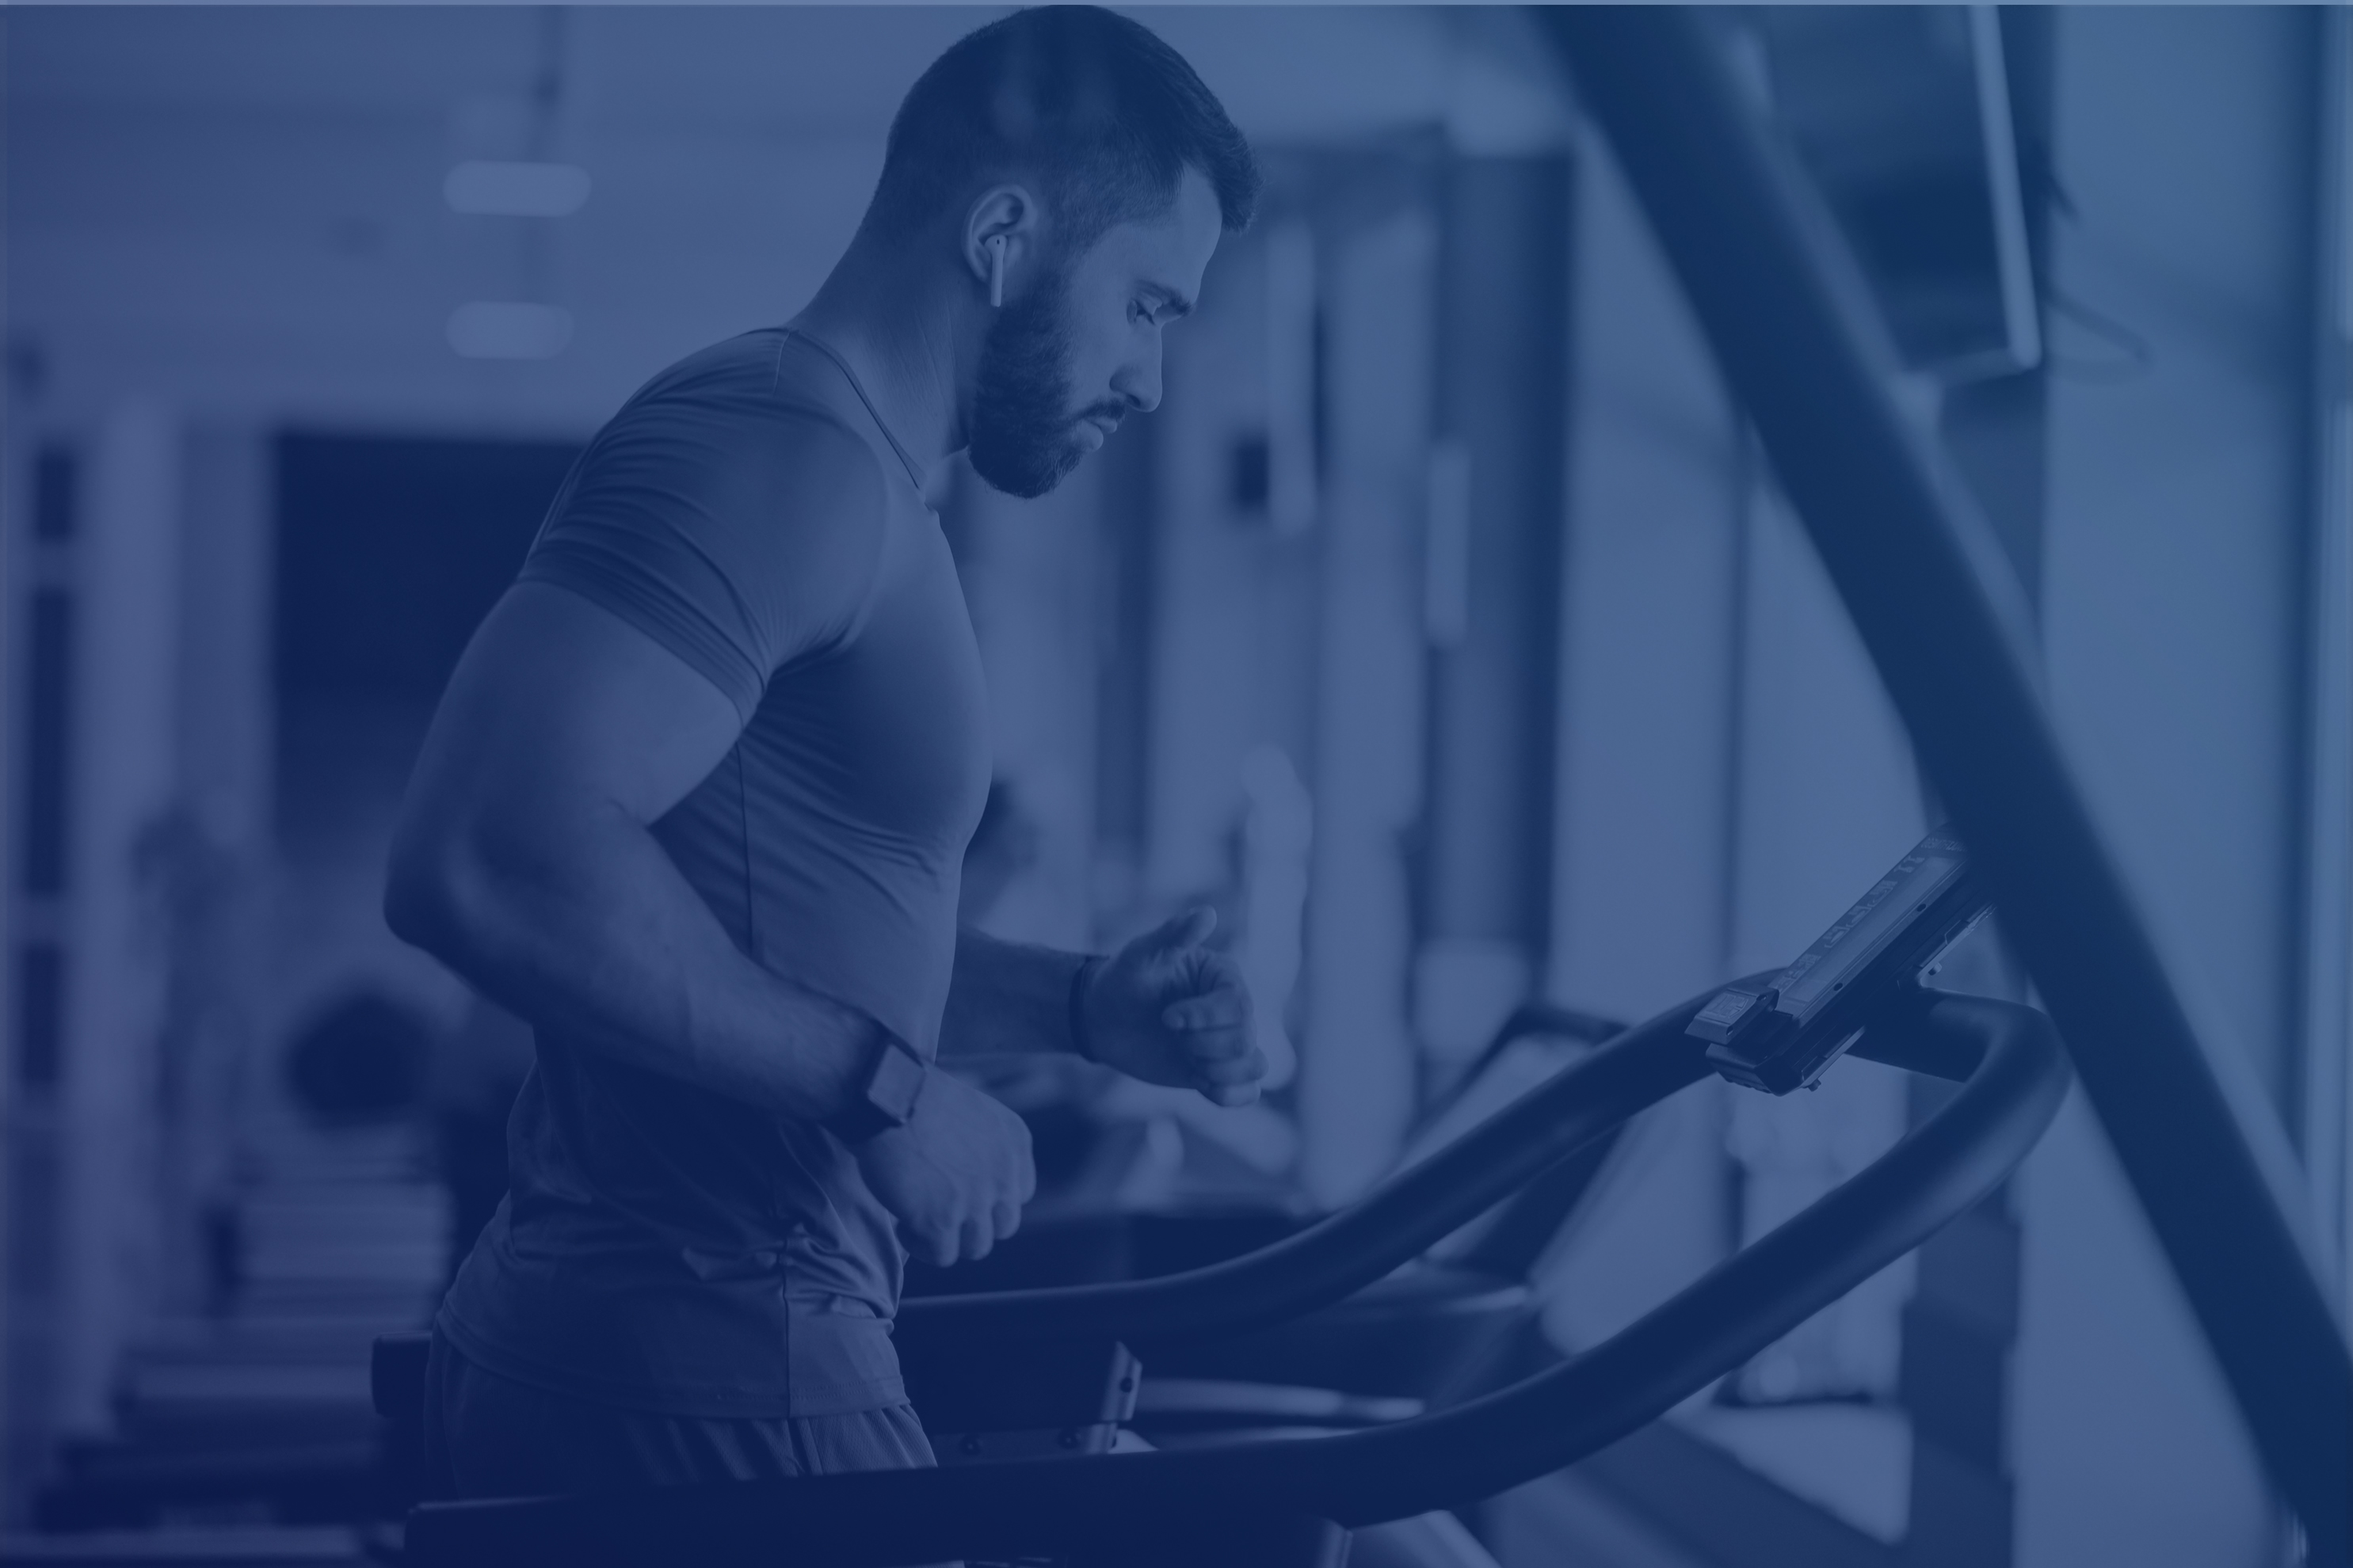
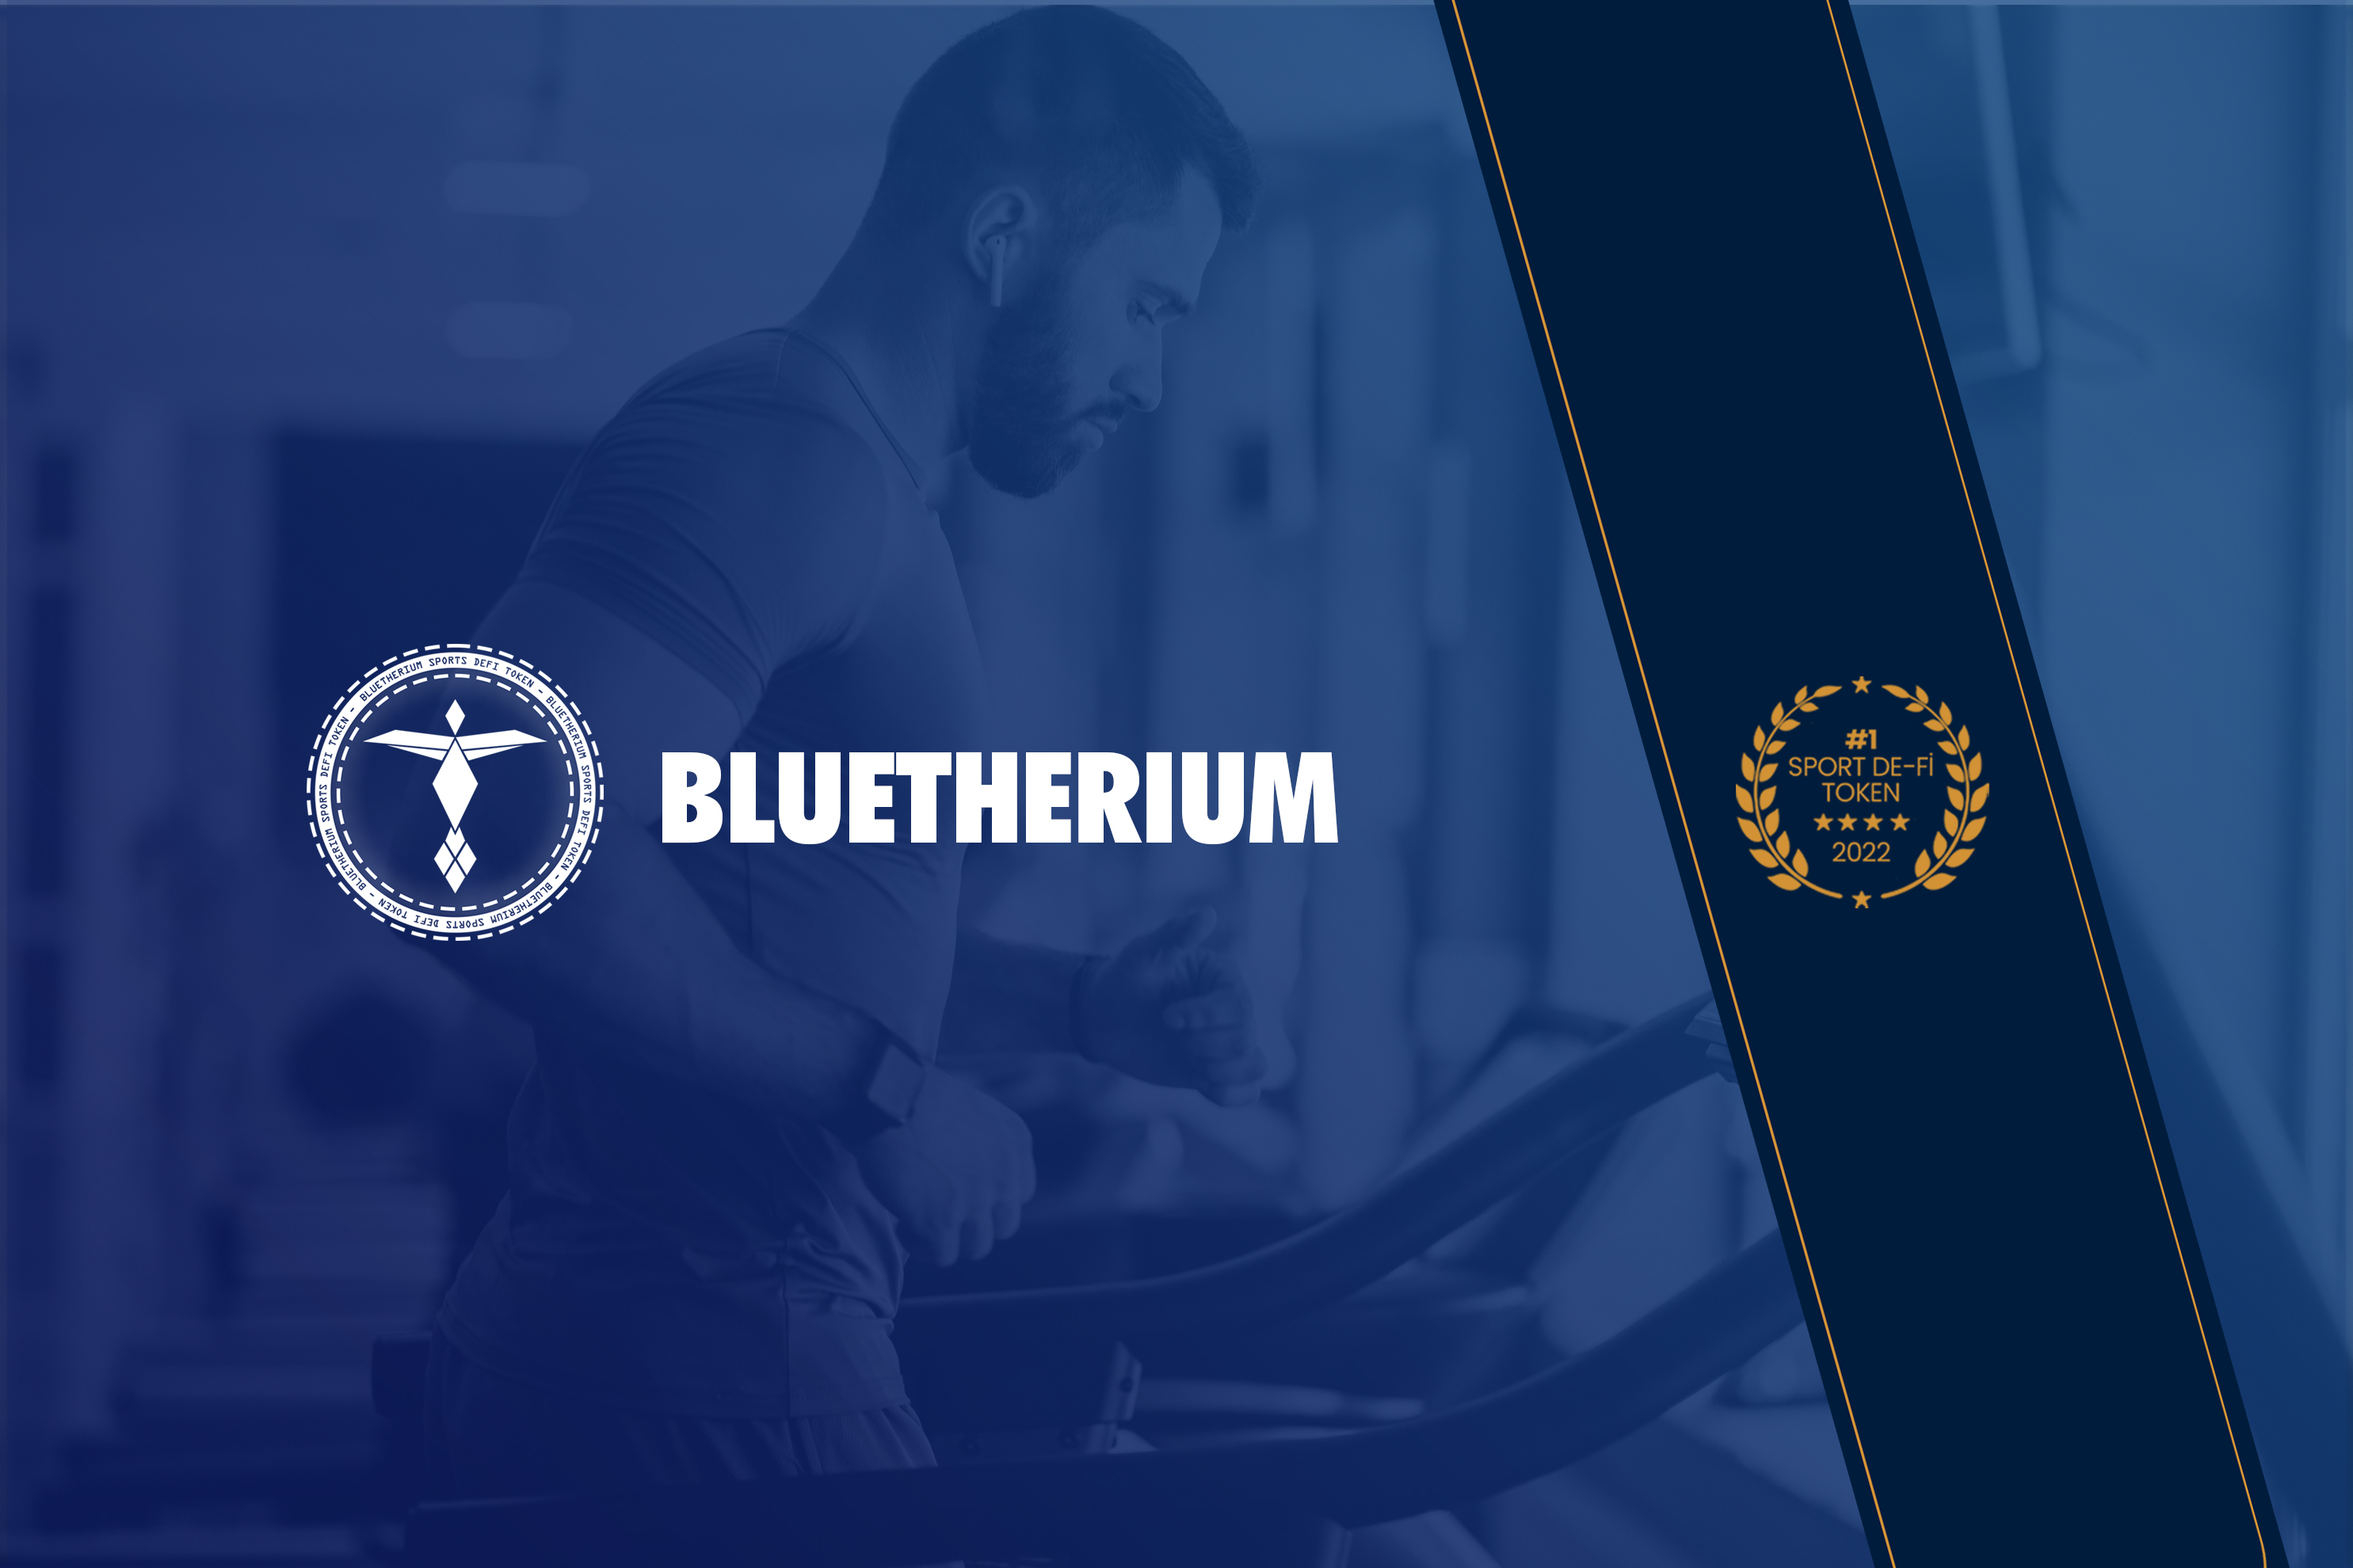
GitBook: [#32] No subject

diff --git a/README.md b/README.md
@@ -1,9 +1,9 @@
 ---
-cover: .gitbook/assets/z1.jpg
+cover: .gitbook/assets/2322.jpg
 coverY: 0
 ---
 
-# World’s #1 Sports De-Fi Token
+# World’s First Sports De-Fi Token
 
 ### LEVEL UP YOUR SPORTS EXPERIENCE NOW
 

diff --git a/SUMMARY.md b/SUMMARY.md
@@ -1,6 +1,6 @@
 # Table of contents
 
-* [World’s #1 Sports De-Fi Token](README.md)
+* [World’s First Sports De-Fi Token](README.md)
 
 ## BLUETHERIUM
 
